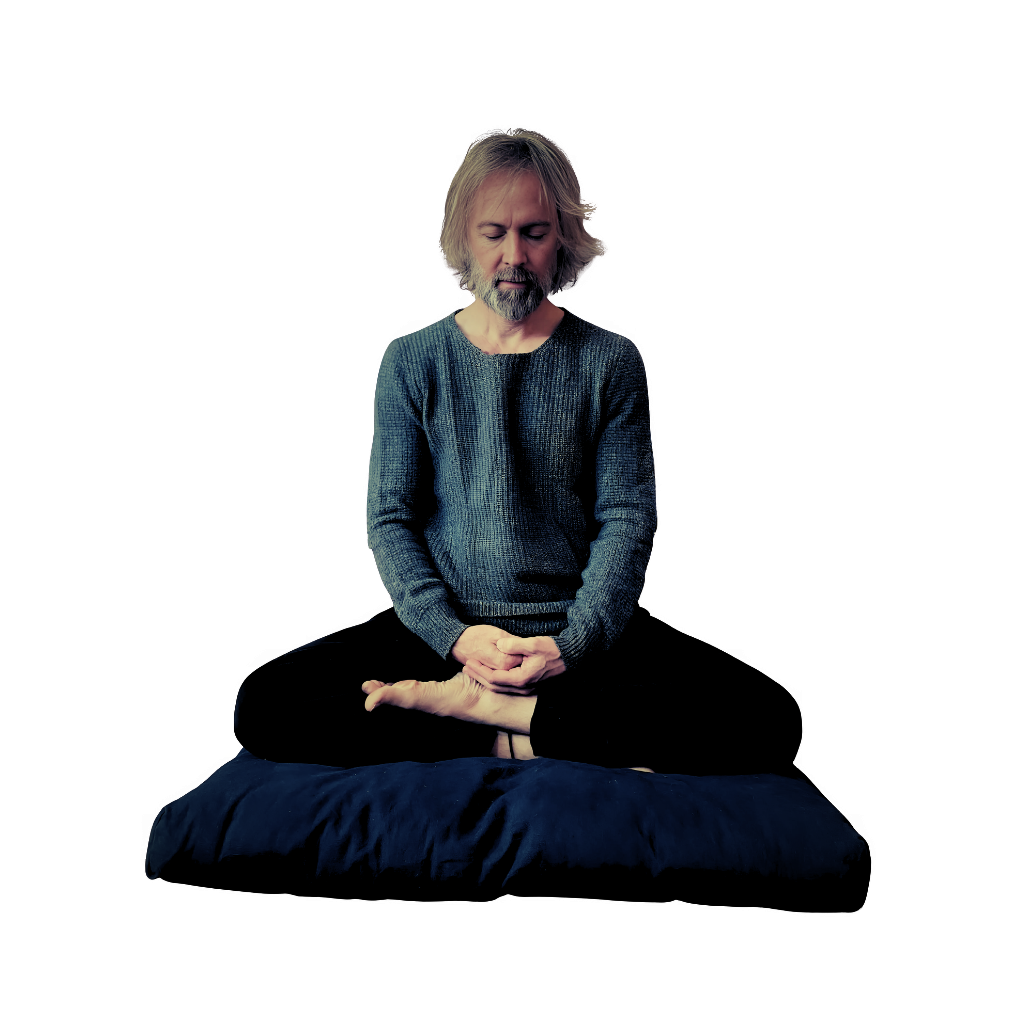
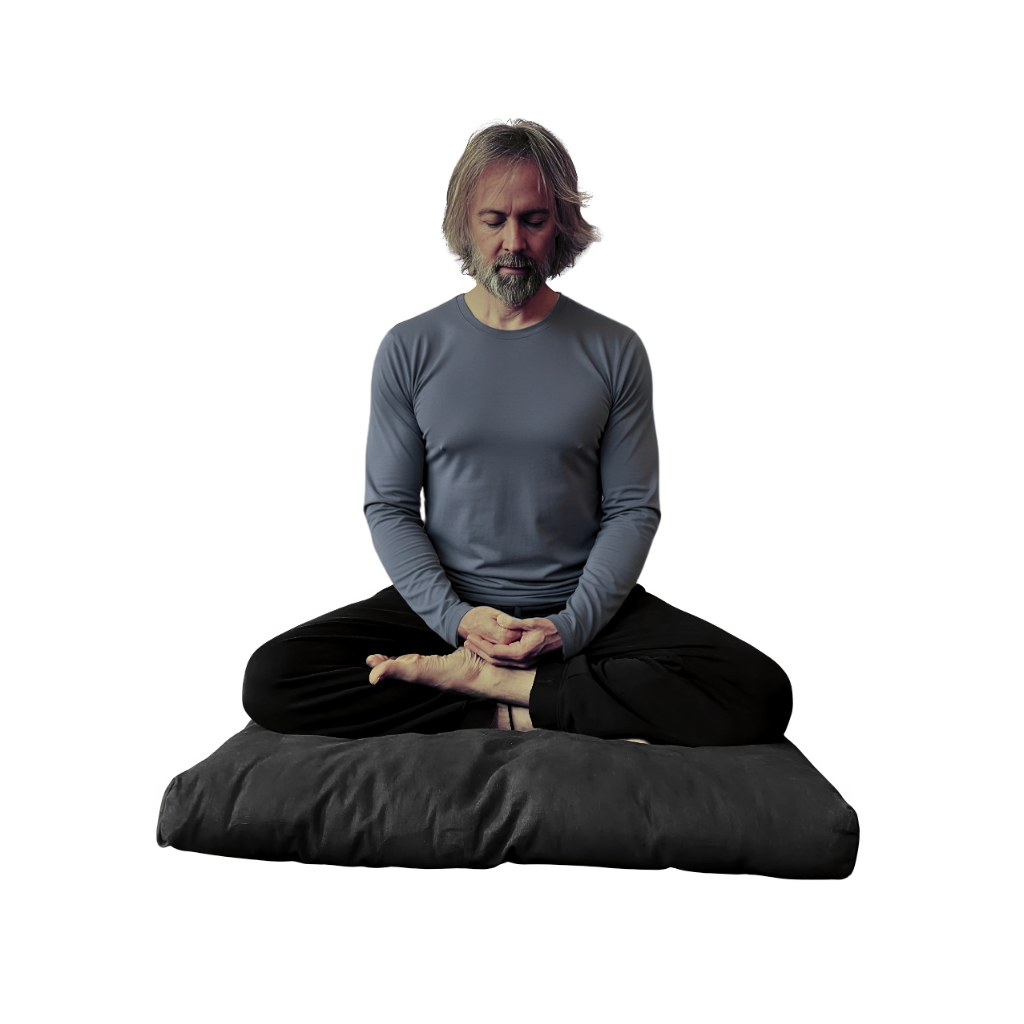
feat: add spiritual page title section and update portrait image

Changed region(s): [[0.125, 0.0938, 0.875, 0.9062]]

diff --git a/src/SpiritualPage.tsx b/src/SpiritualPage.tsx
@@ -442,8 +442,21 @@ export default function SpiritualPage() {
         <main className="spiritual relative mx-auto max-w-6xl px-4 pt-14 md:pt-16 pb-28 md:pb-36 flex-1">
           <div aria-hidden className="absolute inset-0 -z-10" style={{ background: "radial-gradient(ellipse at 50% 35%, rgba(120,150,255,0.10), transparent 60%)" }} />
 
+          {/* Page Title */}
+          <section className="mx-auto max-w-2xl text-center pb-8 md:pb-12">
+            <h1 className="text-3xl md:text-4xl font-semibold tracking-tight">
+              Philosophy & Inner Life
+            </h1>
+
+            <p className="mt-4 text-base md:text-lg text-white/80 leading-relaxed">
+              A space for reflection, awareness, and open conversation.
+            </p>
+          </section>
+
           {/* portrait + orbit */}
           <section id="cycle" className="relative mx-auto w-[min(86vw,560px)] aspect-square scroll-mt-24">
+
+
             <div className="absolute inset-0 rounded-full overflow-hidden">
               <img
                 src="/spiritual/content/spiritual-frederic.png"
@@ -527,12 +540,12 @@ export default function SpiritualPage() {
 
               <div className="leading-relaxed max-w-2xl mr-auto text-left space-y-3">
                 <p className="mt-2 leading-relaxed whitespace-pre-line">
-                  {`Titles are one way to define ourselves, but if I had to choose, I’d rather be known as a trusting friend than a “spiritual guide.” What I share here isn’t easy to sum up with labels. It’s less about definitions and more about experience — a collection of simple practices, reflections, and resources that have helped me along the way.
+                  {`Titles are one way to define ourselves, but if I had to choose, I'd rather be known as a trusting friend than a “spiritual guide.” What I share here isn't easy to sum up with labels. It's less about definitions and more about experience — a collection of simple practices, reflections, and resources that have helped me along the way.
                     This space is where I offer my personal approach to self-awareness and meditation, along with a few books that deeply shaped my journey. None of them were ones I set out to buy; they found their way to me, each planting a small seed. Those seeds sparked my curiosity to look inward.
                     When I first sat down to meditate, I quickly noticed how restless my mind was, always stirring up thoughts into unpredictable outcomes. With time, I learned to sit with that movement instead of fighting it. Looking back, I sometimes think I could have saved myself a few obstacles if I had started earlier — but I also know that wandering is part of the process.
                   `}
                 </p>
-                <p className="font-semibold"> I’m Frederic G. Fleron Grignard.</p>
+                <p className="font-semibold"> I'm Frederic G. Fleron Grignard.</p>
                 <p className="mt-6 text-[clamp(10px,2.8vw,13px)] md:text-sm tracking-[0.12em] sm:tracking-[0.18em] md:tracking-[0.28em] opacity-90 text-[#cacaca] sm:whitespace-nowrap">
                   Yogi · Guide · Meditator
                 </p>
@@ -581,7 +594,7 @@ export default function SpiritualPage() {
               <div>
                 <h2 className="text-2xl mb-3">Reach Out</h2>
                 <p className="opacity-90 mb-6 max-w-prose">
-                  If you’re curious or simply seeking a nudge toward stillness — send me a note and I'll get back to you.
+                  If you're curious or simply seeking a nudge toward stillness — send me a note and I'll get back to you.
                 </p>
 
                 {/* Icons row + disclosure popover */}
